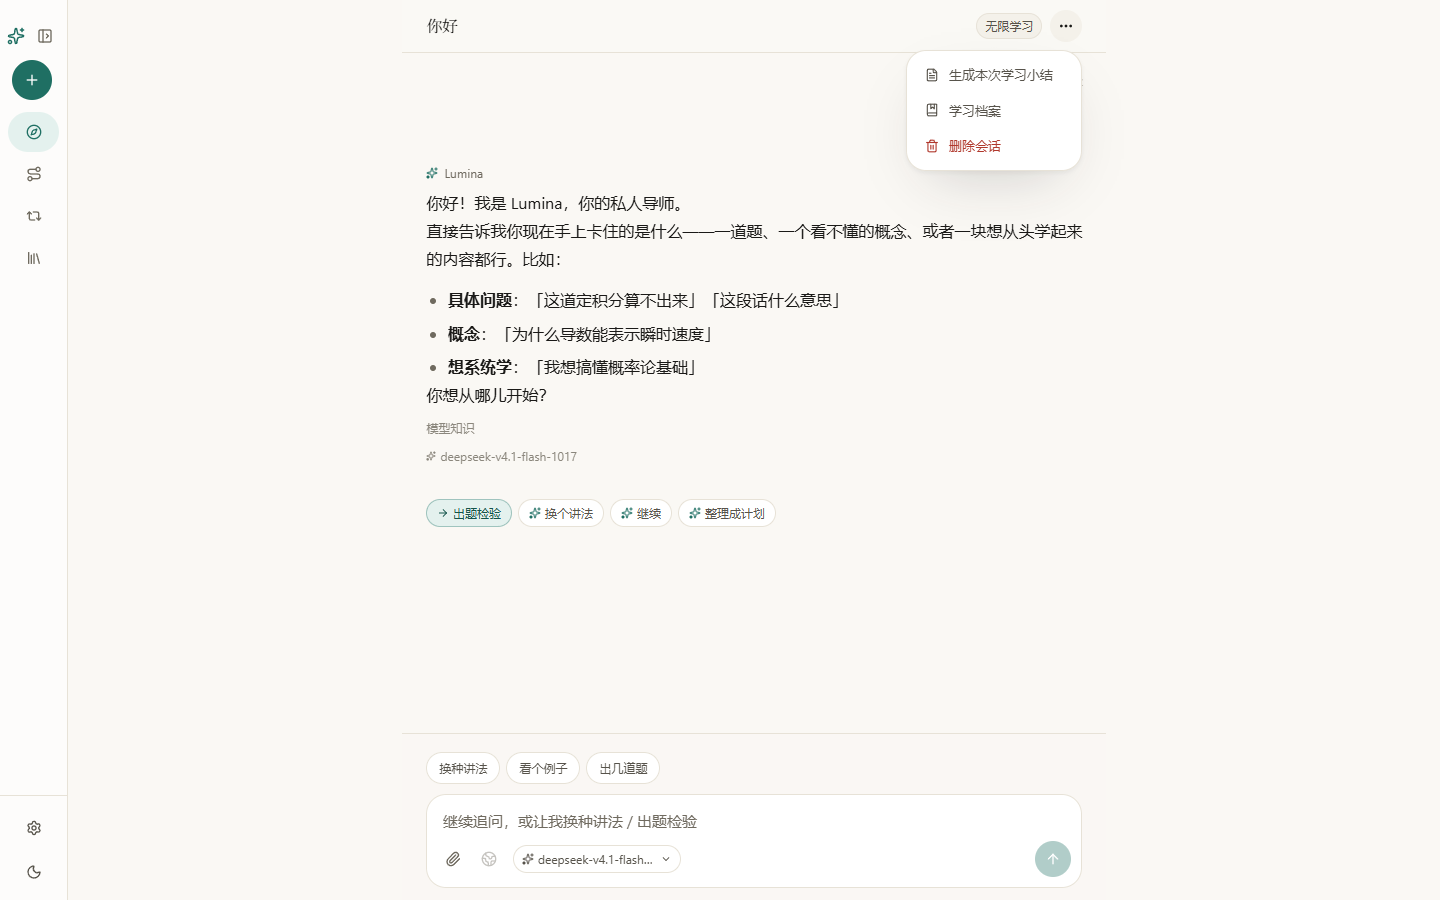
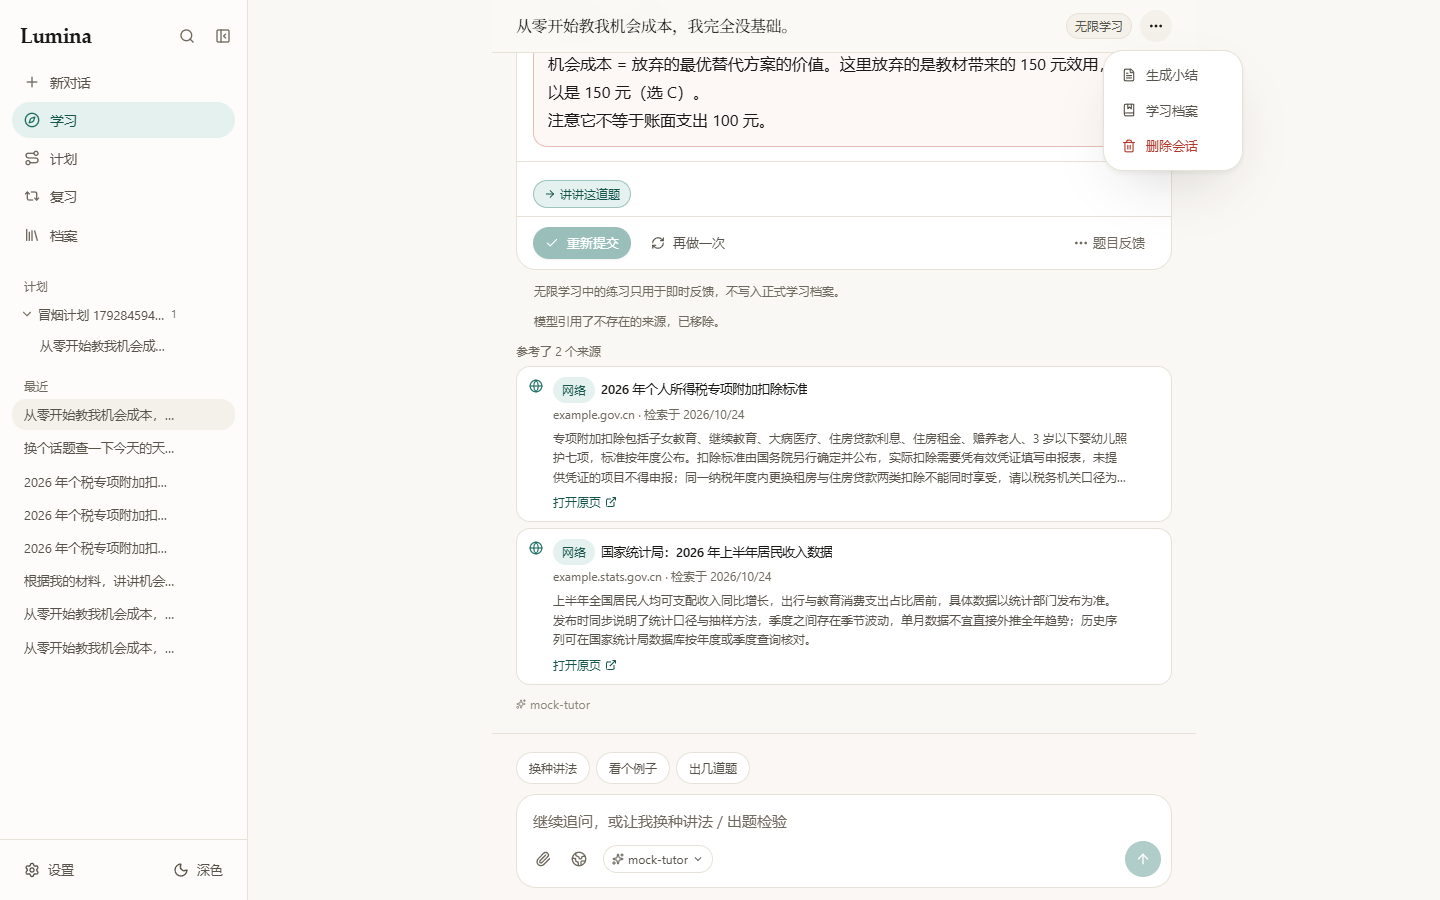
fix(对话页): 右上角菜单收窄、文案改成「生成小结」、往右挪
- 「生成本次学习小结」改成「生成小结」
- 三个点菜单改走 portal + 窄面板（8.75rem），不再撑到 11rem
- 位置和侧栏一致：面板中心对齐触发按钮右缘，往右露出半个面板，
  靠窗口边缘自动夹回，不会出屏
- 打开逻辑不变：向下展开、Esc 关闭、点外面关闭

验证：tsc 0；build 通过（BUILD_ID u2XOaIHGJTVhvvoGvZMqY）并重启 3210；
浏览器总览 94/94（新增：会话页菜单更窄、文案是「生成小结」）；
侧栏专项 37/37；冒烟 83/83；设置专项 45/45；单测 183/183；
实测面板宽 140px，中心比按钮右缘多 1px

diff --git a/src/components/chat/SessionView.tsx b/src/components/chat/SessionView.tsx
@@ -861,9 +861,9 @@ export default function SessionView({ sessionId }: { sessionId: string }) {
             </span>
           ) : null}
           <div className="ml-auto flex shrink-0 items-center gap-1">
-            <OverflowMenu label="">
+            <OverflowMenu portal overhang narrow align="right" label="">
               <MenuItem onClick={generateSummary} disabled={pending || messages.length === 0}>
-                <FileText className="size-3.5" /> 生成本次学习小结
+                <FileText className="size-3.5" /> 生成小结
               </MenuItem>
               <MenuItem onClick={() => router.push("/archive?tab=concepts")}>
                 <BookMarked className="size-3.5" /> 学习档案

diff --git a/docs/AUDIT_2026-10-24.md b/docs/AUDIT_2026-10-24.md
@@ -1046,3 +1046,30 @@ node scripts/audit/repro.cjs
 | 设置专项 | **45/45** |
 | 单元/集成 | **183/183** |
 | 截图 | 已重拍侧栏系列截图 |
+
+---
+
+## 22. 对话页右上角菜单：文案收短、面板收窄、位置往右挪
+
+反馈："对话页右上角三个点的也太宽了，直接说生成小结就行，然后位置同样往右移。"
+
+### 22.1 改动
+
+1. 「生成本次学习小结」→「生成小结」（和侧栏一样，用最短的动词短语）
+2. 面板走 portal + 窄面板（8.75rem），不再撑到 11rem
+3. 位置和侧栏一致：面板中心对齐到触发按钮的右缘，往右露出半个面板；靠窗口边缘自动夹回，不会出屏
+4. 打开逻辑不变：向下展开、Esc 关闭、点外面关闭
+
+### 22.2 验证
+
+| 项目 | 结果 |
+|---|---|
+| `tsc --noEmit` | 0 错误 |
+| `next build` | 通过（`BUILD_ID u2XOaIHGJTVhvvoGvZMqY`），3210 已重启，health 200 |
+| 浏览器总览 | **94/94**（新增：会话页菜单更窄、文案是「生成小结」） |
+| 侧栏专项 | **37/37** |
+| API 冒烟 | **83/83** |
+| 设置专项 | **45/45** |
+| 单元/集成 | **183/183** |
+| 实测 | 面板宽 140px；面板中心比触发按钮右缘多出 1px（即半个面板在按钮右侧） |
+| 截图 | `session-menu.png` |
